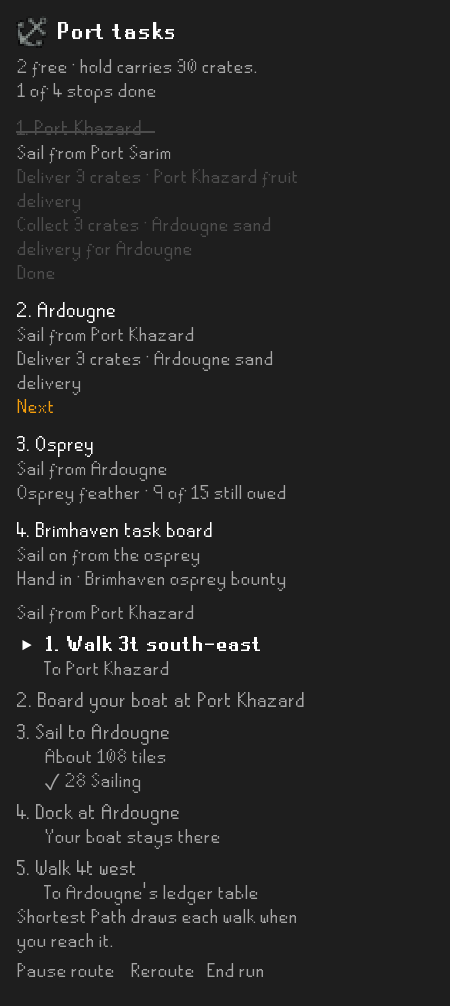
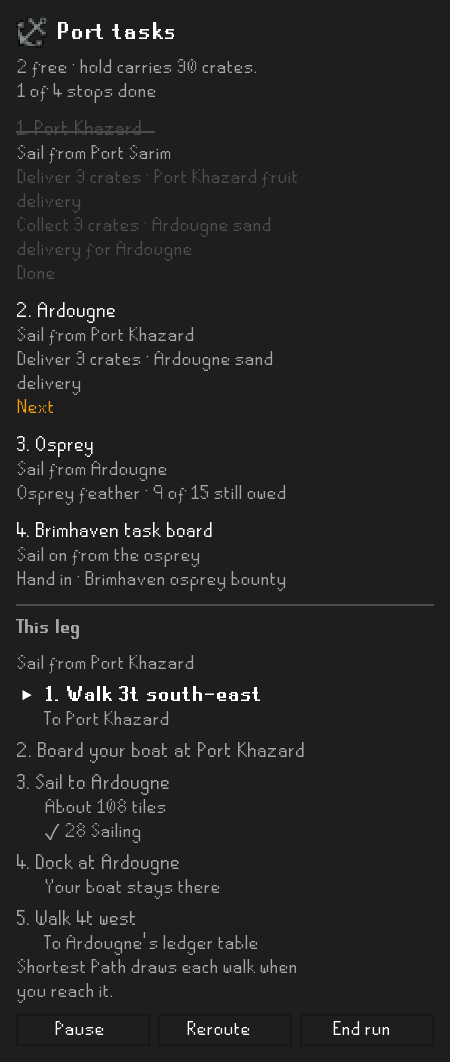
Picture the run and Slayer cards as they are now, and record the pass
The README's farm run, Port tasks and Slayer pictures still showed links
where the cards now have buttons, and no This leg heading; they are rendered
again from the same scenes and synthetic state, and their descriptions say
what they show. The design log closes the pass with what it added outside
the sidebar and the three proposals it did not make, each with the decision
that stopped it: the Open website wording, Rename group's place under
Switch, and star notifications.

diff --git a/docs/sidebar-layout.md b/docs/sidebar-layout.md
@@ -581,3 +581,23 @@ A run's card lists its stops and then the steps of the leg being walked, and the
 heading now sit over them, shown with the steps. The steps keep words where the map sends no picture:
 a walk, a ride, or a teleport the map has no id for stays words alone, and the client names no
 constant for a boat's icons, so none was added.
+
+### Outside the sidebar
+
+*Route here* on a right-click of the game's world map, the step being walked in a small box over
+the game, a key each for Reroute and Follow, and a farm run's missing teleports outlined in the
+bank. Each is a setting under *In the client*. Only Route here sends anything, and it sends what
+Route sends; `docs/network.md` and the submission guide say so. Each is information or a press of
+the player's own: the menu entry is RuneLite's and acts in nothing in the game, and a key presses
+the sidebar's own button, so the rule that nothing acts in the game holds.
+
+### Proposed and not changed
+
+- *Open website* on the death card, beside *Open the map*, is not a slip. The polish pass chose
+  *Open website* for every button that opens the browser and *World map* for the game's map, and
+  *Open the map* is a different request, the one that makes the browser the player.
+- *Rename group…* stays in *Switch ▾*, where the plugin-first plan put it and the README names it;
+  a *Groups ▾* label was turned down before.
+- No star notifications. Stars are fetched only while the Stars tab is open, and an alert would
+  keep the map asking Star Miners at hours nobody is watching, against the one condition they set.
+  The owner has declined star alerts once already.

diff --git a/README.md b/README.md
@@ -51,7 +51,7 @@ Results use the game's map icons and item sprites.
 ## Farm runs in RuneLite
 
 <p>
-  <img src="docs/mockups/sidebar-farm-run.png" width="300" alt="A farm run in the real sidebar: a bank checklist, numbered stops with Done and Visited kept separate, the current leg's steps, and Pause route, Reroute and End run">
+  <img src="docs/mockups/sidebar-farm-run.png" width="300" alt="A farm run in the real sidebar: a bank checklist, numbered stops with Done and Visited kept separate, the current leg's steps under This leg, and Pause, Reroute and End run buttons">
 </p>
 
 Build a run on the website and press **Send run to RuneLite**, or choose a preset, **Ready now**,
@@ -152,7 +152,7 @@ expected hunting. A bounty's pin opens the creature on the map.
 ## Port tasks in RuneLite
 
 <p>
-  <img src="docs/mockups/sidebar-port-tasks.png" width="225" alt="A port-task run in the RuneLite Port tasks card: Port Khazard done, Ardougne next with its crates to deliver, then the osprey hunt and Brimhaven's task board, and the current leg's steps from boarding the boat to the ledger table">
+  <img src="docs/mockups/sidebar-port-tasks.png" width="225" alt="A port-task run in the RuneLite Port tasks card: Port Khazard done, Ardougne next with its crates to deliver, then the osprey hunt and Brimhaven's task board, and under This leg the steps from boarding the boat to the ledger table">
 </p>
 
 Share your port tasks to list the ones you hold in Home: the crates still to collect and where

diff --git a/docs/review-evidence/readme-2026-10-29.md b/docs/review-evidence/readme-2026-10-29.md
@@ -46,3 +46,11 @@ revision is deployed to production. All character names are synthetic.
 helper was also compiled and its new scenes rendered. The phone README preview
 loaded all eight pictures at widths 320, 390 and 736 in both themes, with no
 horizontal overflow; the sharing disclosure opens and the setup jump link works.
+
+## Re-rendered 1 November 2026
+
+The farm run, Port tasks and Slayer pictures were rendered again with the same
+renderer's `farm-bring`, `port-run` and `slayer-card` scenes, after a run's actions and
+Slayer's Route became buttons and a run's current leg gained its *This leg* heading
+(`docs/sidebar-layout.md`, *The RuneLite pass*). Same synthetic state and the same
+sprite stand-ins as before; RuneLite was not launched.
